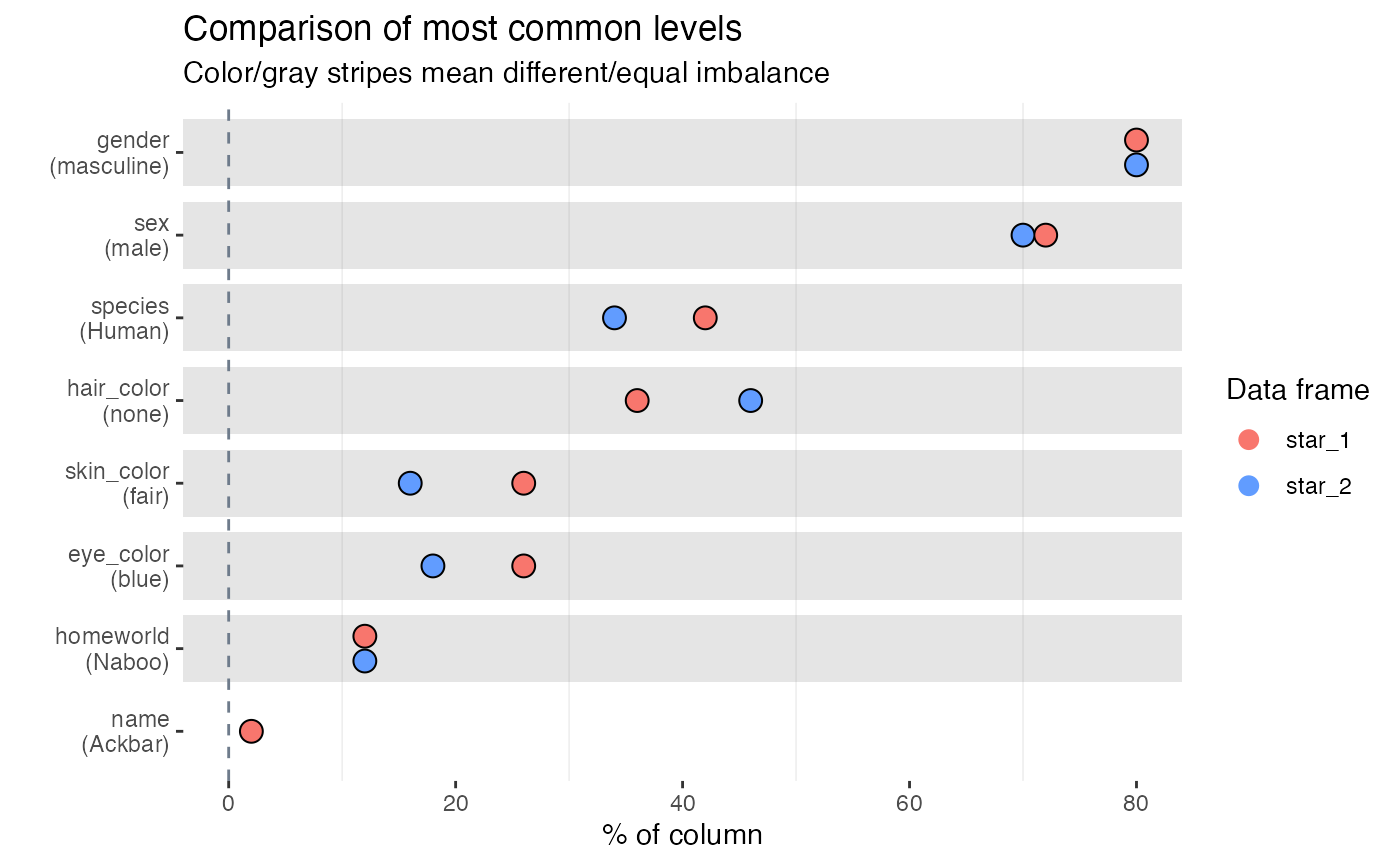
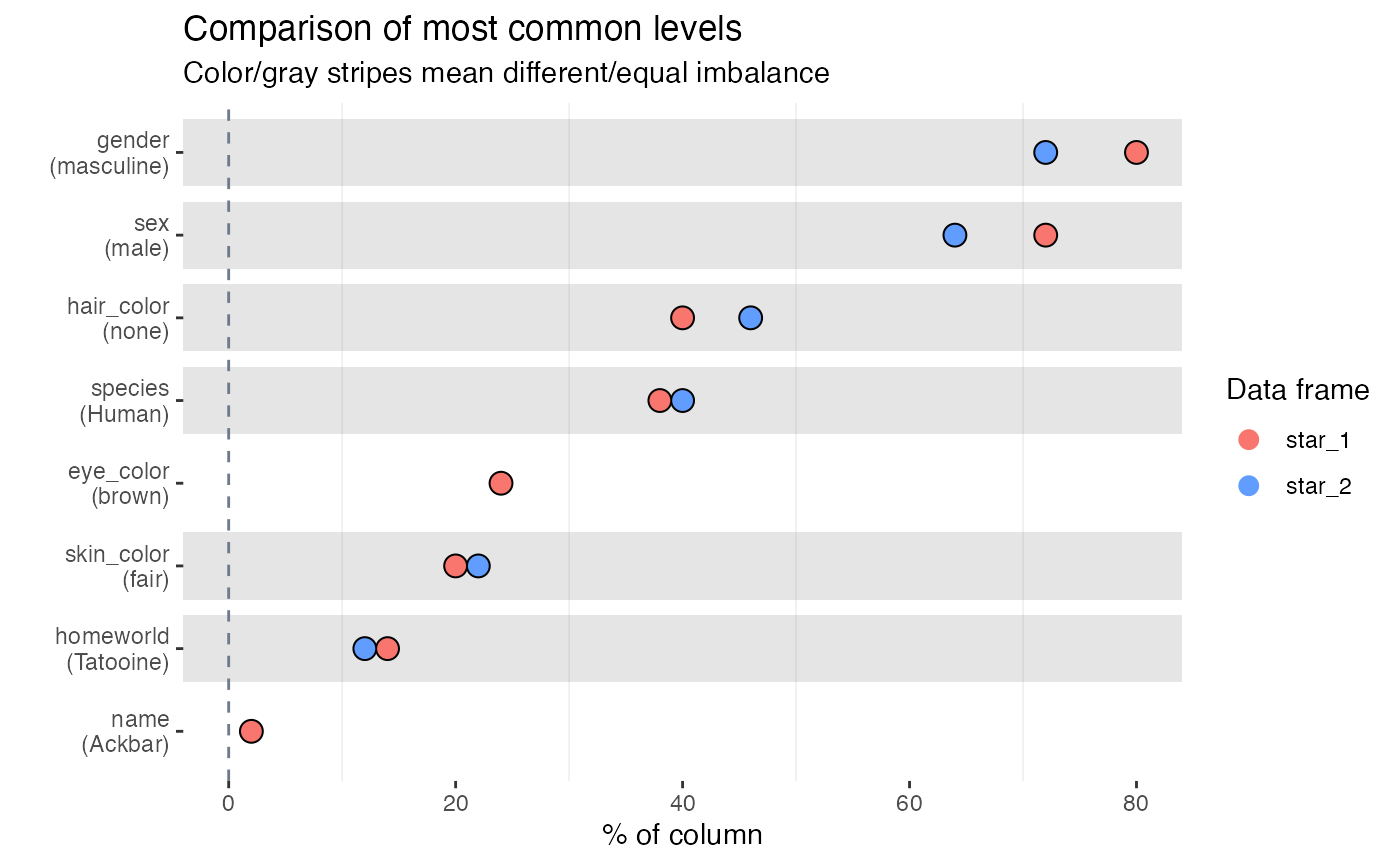
improve pkgdown page for inspect_types page

diff --git a/docs/articles/pkgdown/inspect_types_examples.html b/docs/articles/pkgdown/inspect_types_examples.html
@@ -121,16 +121,24 @@
 <h2 class="hasAnchor">
 <a href="#illustrative-data-starwars" class="anchor"></a>Illustrative data: <code>starwars</code>
 </h2>
-<p>The examples below make use of the <code>starwars</code> and <code>storms</code> data from the <code>dplyr</code> package</p>
+<p>The examples below make use of the <code>starwars</code> from the <code>dplyr</code> package.</p>
 <div class="sourceCode" id="cb1"><pre class="downlit sourceCode r">
-<code class="sourceCode R"><span class="co"># some example data</span>
-<span class="fu"><a href="https://rdrr.io/r/utils/data.html">data</a></span><span class="op">(</span><span class="va">starwars</span>, package <span class="op">=</span> <span class="st">"dplyr"</span><span class="op">)</span>
-<span class="fu"><a href="https://rdrr.io/r/utils/data.html">data</a></span><span class="op">(</span><span class="va">storms</span>, package <span class="op">=</span> <span class="st">"dplyr"</span><span class="op">)</span></code></pre></div>
-<p>For illustrating comparisons of dataframes, use the <code>starwars</code> data and produce two new dataframes <code>star_1</code> and <code>star_2</code> that randomly sample the rows of the original and drop a couple of columns.</p>
-<div class="sourceCode" id="cb2"><pre class="downlit sourceCode r">
 <code class="sourceCode R"><span class="kw"><a href="https://rdrr.io/r/base/library.html">library</a></span><span class="op">(</span><span class="va"><a href="https://dplyr.tidyverse.org">dplyr</a></span><span class="op">)</span>
-<span class="va">star_1</span> <span class="op">&lt;-</span> <span class="va">starwars</span> <span class="op">%&gt;%</span> <span class="fu"><a href="https://dplyr.tidyverse.org/reference/sample_n.html">sample_n</a></span><span class="op">(</span><span class="fl">50</span><span class="op">)</span>
-<span class="va">star_2</span> <span class="op">&lt;-</span> <span class="va">starwars</span> <span class="op">%&gt;%</span> <span class="fu"><a href="https://dplyr.tidyverse.org/reference/sample_n.html">sample_n</a></span><span class="op">(</span><span class="fl">50</span><span class="op">)</span> <span class="op">%&gt;%</span> <span class="fu"><a href="https://dplyr.tidyverse.org/reference/select.html">select</a></span><span class="op">(</span><span class="op">-</span><span class="fl">1</span>, <span class="op">-</span><span class="fl">2</span><span class="op">)</span></code></pre></div>
+<span class="fu"><a href="https://rdrr.io/r/utils/data.html">data</a></span><span class="op">(</span><span class="va">starwars</span>, package <span class="op">=</span> <span class="st">"dplyr"</span><span class="op">)</span>
+
+<span class="co"># print the first few rows</span>
+<span class="fu"><a href="https://rdrr.io/r/utils/head.html">head</a></span><span class="op">(</span><span class="va">starwars</span><span class="op">)</span></code></pre></div>
+<pre><code>## # A tibble: 6 x 14
+##   name  height  mass hair_color skin_color eye_color birth_year sex   gender
+##   &lt;chr&gt;  &lt;int&gt; &lt;dbl&gt; &lt;chr&gt;      &lt;chr&gt;      &lt;chr&gt;          &lt;dbl&gt; &lt;chr&gt; &lt;chr&gt; 
+## 1 Luke…    172    77 blond      fair       blue            19   male  mascu…
+## 2 C-3PO    167    75 &lt;NA&gt;       gold       yellow         112   none  mascu…
+## 3 R2-D2     96    32 &lt;NA&gt;       white, bl… red             33   none  mascu…
+## 4 Dart…    202   136 none       white      yellow          41.9 male  mascu…
+## 5 Leia…    150    49 brown      light      brown           19   fema… femin…
+## 6 Owen…    178   120 brown, gr… light      blue            52   male  mascu…
+## # … with 5 more variables: homeworld &lt;chr&gt;, species &lt;chr&gt;, films &lt;list&gt;,
+## #   vehicles &lt;list&gt;, starships &lt;list&gt;</code></pre>
 </div>
 <div id="inspect_types-for-a-single-dataframe" class="section level2">
 <h2 class="hasAnchor">
@@ -138,8 +146,10 @@
 <p>To explore the column types in a data frame, use the function <code><a href="../../reference/inspect_types.html">inspect_types()</a></code>. The command returns a <code>tibble</code> summarising the counts and percentages of columns with particular types.</p>
 <div class="sourceCode" id="cb3"><pre class="downlit sourceCode r">
 <code class="sourceCode R"><span class="kw"><a href="https://rdrr.io/r/base/library.html">library</a></span><span class="op">(</span><span class="va"><a href="https://alastairrushworth.github.io/inspectdf/">inspectdf</a></span><span class="op">)</span>
+
 <span class="co"># return tibble showing columns types</span>
-<span class="fu"><a href="../../reference/inspect_types.html">inspect_types</a></span><span class="op">(</span><span class="va">starwars</span><span class="op">)</span></code></pre></div>
+<span class="va">x</span> <span class="op">&lt;-</span> <span class="fu"><a href="../../reference/inspect_types.html">inspect_types</a></span><span class="op">(</span><span class="va">starwars</span><span class="op">)</span>
+<span class="va">x</span></code></pre></div>
 <pre><code>## # A tibble: 4 x 4
 ##   type        cnt  pcnt col_name    
 ##   &lt;chr&gt;     &lt;int&gt; &lt;dbl&gt; &lt;named list&gt;
@@ -147,29 +157,67 @@
 ## 2 list          3 21.4  &lt;chr [3]&gt;   
 ## 3 numeric       2 14.3  &lt;chr [2]&gt;   
 ## 4 integer       1  7.14 &lt;chr [1]&gt;</code></pre>
-<p>A barplot can be produced by passing the result to <code><a href="../../reference/show_plot.html">show_plot()</a></code>:</p>
+<p>The names of columns with specific type can be accessed in the list columns <code>col_name</code>, for example the list columns are found using</p>
 <div class="sourceCode" id="cb5"><pre class="downlit sourceCode r">
-<code class="sourceCode R"><span class="co"># print visualisation of column types</span>
-<span class="fu"><a href="../../reference/inspect_types.html">inspect_types</a></span><span class="op">(</span><span class="va">starwars</span><span class="op">)</span> <span class="op">%&gt;%</span> <span class="fu"><a href="../../reference/show_plot.html">show_plot</a></span><span class="op">(</span><span class="op">)</span></code></pre></div>
+<code class="sourceCode R"><span class="va">x</span><span class="op">$</span><span class="va">col_name</span><span class="op">$</span><span class="va">list</span></code></pre></div>
+<pre><code>##          12          13          14 
+##     "films"  "vehicles" "starships"</code></pre>
+<p>A radial visualisation of all columns and types is returned by the <code><a href="../../reference/show_plot.html">show_plot()</a></code> command:</p>
+<div class="sourceCode" id="cb7"><pre class="downlit sourceCode r">
+<code class="sourceCode R"><span class="co"># radial visualisation of column types</span>
+<span class="va">x</span> <span class="op">%&gt;%</span> <span class="fu"><a href="../../reference/show_plot.html">show_plot</a></span><span class="op">(</span><span class="op">)</span></code></pre></div>
 <p><img src="inspect_types_examples_files/figure-html/unnamed-chunk-4-1.png" width="700"></p>
 </div>
-<div id="inspect_types-for-two-dataframes" class="section level2">
+<div id="inspect_types-for-comparing-two-data-frames" class="section level2">
 <h2 class="hasAnchor">
-<a href="#inspect_types-for-two-dataframes" class="anchor"></a><code>inspect_types()</code> for two dataframes</h2>
-<p>When a second dataframe is provided, <code><a href="../../reference/inspect_types.html">inspect_types()</a></code> will create a dataframe comparing the count and percentage of each column type for each of the input dataframes. The summaries for the first and second dataframes are show in columns with names appended with <code>_1</code> and <code>_2</code>, respectively.</p>
-<div class="sourceCode" id="cb6"><pre class="downlit sourceCode r">
-<code class="sourceCode R"><span class="fu"><a href="../../reference/inspect_types.html">inspect_types</a></span><span class="op">(</span><span class="va">star_1</span>, <span class="va">star_2</span><span class="op">)</span></code></pre></div>
+<a href="#inspect_types-for-comparing-two-data-frames" class="anchor"></a><code>inspect_types()</code> for comparing two data frames</h2>
+<p>To illustrate the comparison of two data frames, we create two new data frames by randomly sampling the rows of <code>starwars</code> and also dropping some of the columns, and . The results are assigned to the objects <code>star_1</code> and <code>star_2</code>:</p>
+<div class="sourceCode" id="cb8"><pre class="downlit sourceCode r">
+<code class="sourceCode R"><span class="co"># sample 50 rows from `starwars`</span>
+<span class="va">star_1</span> <span class="op">&lt;-</span> <span class="va">starwars</span> <span class="op">%&gt;%</span> <span class="fu"><a href="https://dplyr.tidyverse.org/reference/sample_n.html">sample_n</a></span><span class="op">(</span><span class="fl">50</span><span class="op">)</span>
+<span class="co"># recode the mass column to character</span>
+<span class="va">star_1</span><span class="op">$</span><span class="va">mass</span> <span class="op">&lt;-</span> <span class="fu"><a href="https://rdrr.io/r/base/character.html">as.character</a></span><span class="op">(</span><span class="va">star_1</span><span class="op">$</span><span class="va">mass</span><span class="op">)</span>
+<span class="co"># sample 50 rows from `starwars` and drop the first two columns</span>
+<span class="va">star_2</span> <span class="op">&lt;-</span> <span class="va">starwars</span> <span class="op">%&gt;%</span> <span class="fu"><a href="https://dplyr.tidyverse.org/reference/sample_n.html">sample_n</a></span><span class="op">(</span><span class="fl">50</span><span class="op">)</span> <span class="op">%&gt;%</span> <span class="fu"><a href="https://dplyr.tidyverse.org/reference/select.html">select</a></span><span class="op">(</span><span class="op">-</span><span class="fl">1</span>, <span class="op">-</span><span class="fl">2</span><span class="op">)</span></code></pre></div>
+<p>When a second dataframe is provided, <code><a href="../../reference/inspect_types.html">inspect_types()</a></code> returns a tibble that compares the column names and types found in each of the input data frames. The columns <code>cnt_1</code> and <code>cnt_2</code> contain the total number of columns with each type found in the first and second inputs, respectively:</p>
+<div class="sourceCode" id="cb9"><pre class="downlit sourceCode r">
+<code class="sourceCode R"><span class="co"># compare the column types for star_1 and star_2</span>
+<span class="va">x</span> <span class="op">&lt;-</span> <span class="fu"><a href="../../reference/inspect_types.html">inspect_types</a></span><span class="op">(</span><span class="va">star_1</span>, <span class="va">star_2</span><span class="op">)</span>
+<span class="va">x</span></code></pre></div>
 <pre><code>## # A tibble: 4 x 6
 ##   type      equal cnt_1 cnt_2 columns           issues   
 ##   &lt;chr&gt;     &lt;chr&gt; &lt;int&gt; &lt;int&gt; &lt;named list&gt;      &lt;list&gt;   
-## 1 character ✘         8     7 &lt;tibble [15 × 2]&gt; &lt;chr [1]&gt;
+## 1 character ✘         9     7 &lt;tibble [16 × 2]&gt; &lt;chr [2]&gt;
 ## 2 list      ✔        3     3 &lt;tibble [6 × 2]&gt;  &lt;NULL&gt;   
-## 3 numeric   ✔        2     2 &lt;tibble [4 × 2]&gt;  &lt;NULL&gt;   
-## 4 integer   ✘         1     0 &lt;tibble [1 × 2]&gt;  &lt;chr [1]&gt;</code></pre>
-<div class="sourceCode" id="cb8"><pre class="downlit sourceCode r">
+## 3 integer   ✘         1     0 &lt;tibble [1 × 2]&gt;  &lt;chr [1]&gt;
+## 4 numeric   ✘         1     2 &lt;tibble [3 × 2]&gt;  &lt;chr [1]&gt;</code></pre>
+<p><code>columns</code> is a named list column containing a list of tibbles. Each tibble records the names of columns with each type. As an example, all numeric column names is accessed using:</p>
+<div class="sourceCode" id="cb11"><pre class="downlit sourceCode r">
+<code class="sourceCode R"><span class="co"># tibble of numeric columns in star_1 or star_2</span>
+<span class="va">x</span><span class="op">$</span><span class="va">columns</span><span class="op">$</span><span class="va">numeric</span></code></pre></div>
+<pre><code>## # A tibble: 3 x 2
+##   col_name   data_arg
+##   &lt;chr&gt;      &lt;chr&gt;   
+## 1 birth_year star_1  
+## 2 mass       star_2  
+## 3 birth_year star_2</code></pre>
+<p>The <code>issues</code> column contains a list of character vectors describing specific points of type or columns mismatch between the two data frame inputs. The simplest way to view all of the issues is to use the <code><a href="https://tidyr.tidyverse.org/reference/nest.html">unnest()</a></code> function from the <code>tidyr</code> package:</p>
+<div class="sourceCode" id="cb13"><pre class="downlit sourceCode r">
+<code class="sourceCode R"><span class="kw"><a href="https://rdrr.io/r/base/library.html">library</a></span><span class="op">(</span><span class="va"><a href="https://tidyr.tidyverse.org">tidyr</a></span><span class="op">)</span>
+<span class="co"># unnest the issue columns so we can see where the differences are between star_1 and star_2</span>
+<span class="va">x</span> <span class="op">%&gt;%</span> <span class="fu"><a href="https://dplyr.tidyverse.org/reference/select.html">select</a></span><span class="op">(</span><span class="va">type</span>, <span class="va">issues</span><span class="op">)</span> <span class="op">%&gt;%</span> <span class="fu"><a href="https://tidyr.tidyverse.org/reference/nest.html">unnest</a></span><span class="op">(</span><span class="va">issues</span><span class="op">)</span></code></pre></div>
+<pre><code>## # A tibble: 4 x 2
+##   type      issues                                             
+##   &lt;chr&gt;     &lt;chr&gt;                                              
+## 1 character star_1::mass ~ character &lt;!&gt; star_2::mass ~ numeric
+## 2 character star_1::name ~ character  missing from star_2      
+## 3 integer   star_1::height ~ integer  missing from star_2      
+## 4 numeric   star_1::mass ~ character &lt;!&gt; star_2::mass ~ numeric</code></pre>
+<p>Finally, we can produce a simple visualisation showing the differences between <code>star_1</code> and <code>star_2</code> using <code><a href="../../reference/show_plot.html">show_plot()</a></code>:</p>
+<div class="sourceCode" id="cb15"><pre class="downlit sourceCode r">
 <code class="sourceCode R"><span class="co"># print visualisation of column type comparison</span>
 <span class="fu"><a href="../../reference/inspect_types.html">inspect_types</a></span><span class="op">(</span><span class="va">star_1</span>, <span class="va">star_2</span><span class="op">)</span> <span class="op">%&gt;%</span> <span class="fu"><a href="../../reference/show_plot.html">show_plot</a></span><span class="op">(</span><span class="op">)</span></code></pre></div>
-<p><img src="inspect_types_examples_files/figure-html/unnamed-chunk-6-1.png" width="700"></p>
+<p><img src="inspect_types_examples_files/figure-html/unnamed-chunk-9-1.png" width="700"></p>
 </div>
   </div>
 

diff --git a/docs/articles/pkgdown/inspect_mem_examples.html b/docs/articles/pkgdown/inspect_mem_examples.html
@@ -185,20 +185,20 @@
 <pre><code>## # A tibble: 14 x 5
 ##    col_name   size_1    size_2    pcnt_1 pcnt_2
 ##    &lt;chr&gt;      &lt;chr&gt;     &lt;chr&gt;      &lt;dbl&gt;  &lt;dbl&gt;
-##  1 films      11.19 Kb  10.36 Kb  35.1    37.7 
-##  2 starships  3.9 Kb    3.87 Kb   12.2    14.1 
-##  3 name       3.55 Kb   &lt;NA&gt;      11.1    NA   
-##  4 vehicles   3.34 Kb   3.14 Kb   10.5    11.4 
-##  5 homeworld  2.01 Kb   2.3 Kb     6.30    8.36
-##  6 skin_color 1.79 Kb   1.91 Kb    5.61    6.94
-##  7 species    1.67 Kb   1.82 Kb    5.24    6.62
-##  8 eye_color  1.1 Kb    1.1 Kb     3.45    4.01
-##  9 hair_color 1 Kb      968 bytes  3.14    3.44
-## 10 sex        680 bytes 616 bytes  2.08    2.19
-## 11 gender     576 bytes 576 bytes  1.76    2.05
-## 12 mass       448 bytes 448 bytes  1.37    1.59
-## 13 birth_year 448 bytes 448 bytes  1.37    1.59
-## 14 height     248 bytes &lt;NA&gt;       0.759  NA</code></pre>
+##  1 films      10.95 Kb  11.31 Kb  33.7    38.2 
+##  2 starships  4.1 Kb    4.69 Kb   12.6    15.8 
+##  3 name       3.57 Kb   &lt;NA&gt;      11.0    NA   
+##  4 vehicles   3.27 Kb   3.72 Kb   10.0    12.6 
+##  5 homeworld  2.38 Kb   2.19 Kb    7.30    7.39
+##  6 species    1.99 Kb   1.84 Kb    6.12    6.23
+##  7 skin_color 1.95 Kb   1.69 Kb    6.00    5.70
+##  8 eye_color  1.1 Kb    1.05 Kb    3.39    3.56
+##  9 hair_color 904 bytes 1.01 Kb    2.71    3.40
+## 10 sex        680 bytes 680 bytes  2.04    2.24
+## 11 gender     576 bytes 576 bytes  1.73    1.90
+## 12 mass       448 bytes 448 bytes  1.34    1.48
+## 13 birth_year 448 bytes 448 bytes  1.34    1.48
+## 14 height     248 bytes &lt;NA&gt;       0.744  NA</code></pre>
 <div class="sourceCode" id="cb10"><pre class="downlit sourceCode r">
 <code class="sourceCode R"><span class="fu"><a href="../../reference/inspect_mem.html">inspect_mem</a></span><span class="op">(</span><span class="va">star_1</span>, <span class="va">star_2</span><span class="op">)</span> <span class="op">%&gt;%</span> <span class="fu"><a href="../../reference/show_plot.html">show_plot</a></span><span class="op">(</span><span class="op">)</span></code></pre></div>
 <p><img src="inspect_mem_examples_files/figure-html/unnamed-chunk-8-1.png" width="700"></p>

diff --git a/docs/articles/pkgdown/inspect_imb_examples.html b/docs/articles/pkgdown/inspect_imb_examples.html
@@ -164,14 +164,14 @@
 <pre><code>## # A tibble: 8 x 7
 ##   col_name   value     pcnt_1 cnt_1 pcnt_2 cnt_2 p_value
 ##   &lt;chr&gt;      &lt;chr&gt;      &lt;dbl&gt; &lt;int&gt;  &lt;dbl&gt; &lt;int&gt;   &lt;dbl&gt;
-## 1 gender     masculine     80    40     80    40   1.00 
-## 2 sex        male          72    36     70    35   1.00 
-## 3 species    Human         42    21     34    17   0.537
-## 4 hair_color none          36    18     46    23   0.416
-## 5 skin_color fair          26    13     16     8   0.326
-## 6 eye_color  blue          26    13     18     9   0.469
-## 7 homeworld  Naboo         12     6     12     6   1    
-## 8 name       Ackbar         2     1     NA    NA  NA</code></pre>
+## 1 gender     masculine    80     40     72    36   0.482
+## 2 sex        male         72     36     64    32   0.520
+## 3 hair_color none         40     20     46    23   0.686
+## 4 species    Human        38     19     40    20   1    
+## 5 eye_color  brown        24     12     NA    NA  NA    
+## 6 skin_color fair         20     10     22    11   1.00 
+## 7 homeworld  Tatooine     14.     7     12     6   1    
+## 8 name       Ackbar        2      1     NA    NA  NA</code></pre>
 <div class="sourceCode" id="cb8"><pre class="downlit sourceCode r">
 <code class="sourceCode R"><span class="fu"><a href="../../reference/inspect_imb.html">inspect_imb</a></span><span class="op">(</span><span class="va">star_1</span>, <span class="va">star_2</span><span class="op">)</span> <span class="op">%&gt;%</span> <span class="fu"><a href="../../reference/show_plot.html">show_plot</a></span><span class="op">(</span><span class="op">)</span></code></pre></div>
 <p><img src="inspect_imb_examples_files/figure-html/unnamed-chunk-6-1.png" width="700"></p>

diff --git a/docs/articles/pkgdown/inspect_cat_examples.html b/docs/articles/pkgdown/inspect_cat_examples.html
@@ -203,14 +203,14 @@
 <pre><code>## # A tibble: 8 x 5
 ##   col_name        jsd   pval lvls_1            lvls_2           
 ##   &lt;chr&gt;         &lt;dbl&gt;  &lt;dbl&gt; &lt;named list&gt;      &lt;named list&gt;     
-## 1 eye_color   0.0410   0.712 &lt;tibble [13 × 3]&gt; &lt;tibble [13 × 3]&gt;
-## 2 gender      0.00593  0.665 &lt;tibble [3 × 3]&gt;  &lt;tibble [3 × 3]&gt; 
-## 3 hair_color  0.0523   0.390 &lt;tibble [11 × 3]&gt; &lt;tibble [10 × 3]&gt;
-## 4 homeworld   0.238    0.906 &lt;tibble [30 × 3]&gt; &lt;tibble [32 × 3]&gt;
+## 1 eye_color   0.0253   0.762 &lt;tibble [13 × 3]&gt; &lt;tibble [12 × 3]&gt;
+## 2 gender      0.00644  0.641 &lt;tibble [3 × 3]&gt;  &lt;tibble [3 × 3]&gt; 
+## 3 hair_color  0.0348   0.683 &lt;tibble [13 × 3]&gt; &lt;tibble [11 × 3]&gt;
+## 4 homeworld   0.157    1     &lt;tibble [33 × 3]&gt; &lt;tibble [33 × 3]&gt;
 ## 5 name       NA       NA     &lt;tibble [50 × 3]&gt; &lt;NULL&gt;           
-## 6 sex         0.0156   0.379 &lt;tibble [5 × 3]&gt;  &lt;tibble [5 × 3]&gt; 
-## 7 skin_color  0.176    1     &lt;tibble [24 × 3]&gt; &lt;tibble [22 × 3]&gt;
-## 8 species     0.202    1     &lt;tibble [23 × 3]&gt; &lt;tibble [27 × 3]&gt;</code></pre>
+## 6 sex         0.00825  0.634 &lt;tibble [5 × 3]&gt;  &lt;tibble [5 × 3]&gt; 
+## 7 skin_color  0.0866   0.613 &lt;tibble [19 × 3]&gt; &lt;tibble [21 × 3]&gt;
+## 8 species     0.109    0.688 &lt;tibble [24 × 3]&gt; &lt;tibble [24 × 3]&gt;</code></pre>
 <!-- # ```{r} -->
 <!-- # inspect_cat(star_1, star_2) %>% show_plot() -->
 <!-- # ``` -->

diff --git a/docs/articles/pkgdown/inspect_na_examples.html b/docs/articles/pkgdown/inspect_na_examples.html
@@ -176,14 +176,14 @@
 <pre><code>## # A tibble: 14 x 6
 ##    col_name   cnt_1 pcnt_1 cnt_2 pcnt_2 p_value
 ##    &lt;chr&gt;      &lt;int&gt;  &lt;dbl&gt; &lt;int&gt;  &lt;dbl&gt;   &lt;dbl&gt;
-##  1 birth_year    28     56    23     46   0.424
-##  2 mass          17     34    16     32   1    
-##  3 hair_color     5     10     4      8   1    
-##  4 height         3      6    NA     NA  NA    
-##  5 sex            3      6     4      8   1.00 
-##  6 gender         3      6     4      8   1.00 
-##  7 homeworld      3      6     7     14   0.317
-##  8 species        3      6     4      8   1.00 
+##  1 birth_year    23     46    28     56   0.424
+##  2 mass          13     26    15     30   0.824
+##  3 hair_color     4      8     2      4   0.674
+##  4 homeworld      4      8     7     14   0.523
+##  5 sex            2      4     3      6   1.00 
+##  6 gender         2      4     3      6   1.00 
+##  7 species        2      4     3      6   1.00 
+##  8 height         1      2    NA     NA  NA    
 ##  9 name           0      0    NA     NA  NA    
 ## 10 skin_color     0      0     0      0  NA    
 ## 11 eye_color      0      0     0      0  NA    

diff --git a/docs/news/index.html b/docs/news/index.html
@@ -154,7 +154,7 @@
 
     <div id="inspectdf-0010" class="section level1">
 <h1 class="page-header" data-toc-text="0.0.10">
-<a href="#inspectdf-0010" class="anchor"></a><small> Unreleased </small><code>inspectdf</code> 0.0.10</h1>
+<a href="#inspectdf-0010" class="anchor"></a><small> 2021-02-20 </small><code>inspectdf</code> 0.0.10</h1>
 <ul>
 <li>Add <code>include_int</code> option in <code><a href="../reference/inspect_cat.html">inspect_cat()</a></code> to allow treatment of integer columns as categorical.</li>
 <li>Improved p-values associated with binned categorical and numeric comparisons. This is now based on a modified chi-squared test and is labelled as <code>pval</code> in the resulting output.</li>
